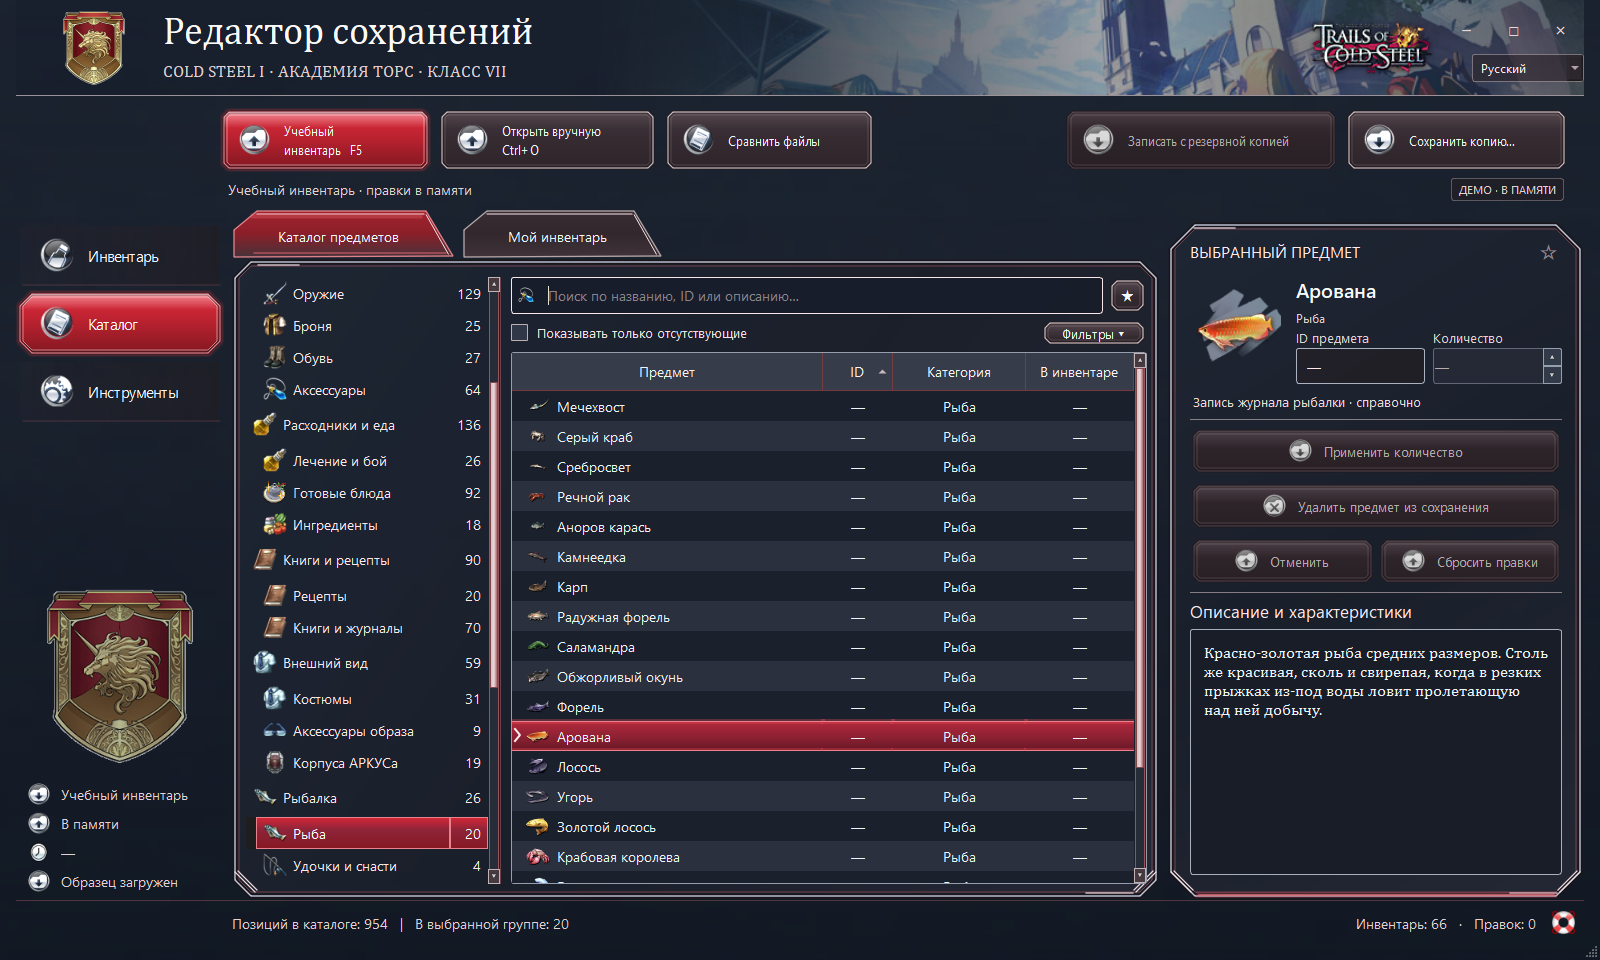
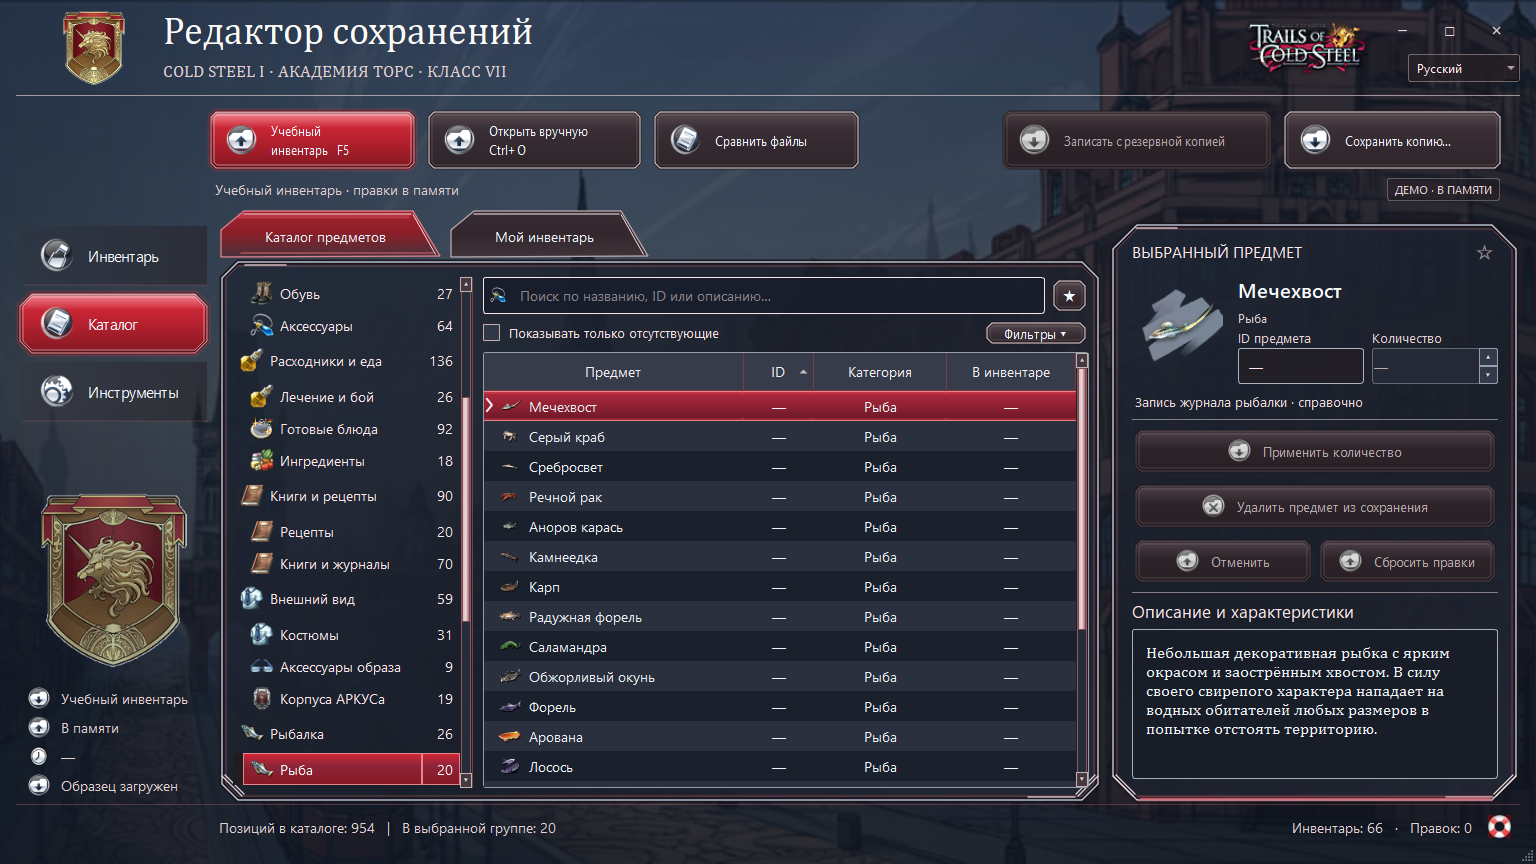
Unify the editor backdrop and fix catalog regressions

diff --git a/qt_hud_widgets.py b/qt_hud_widgets.py
@@ -1,7 +1,6 @@
 """Painted HUD chrome around real, accessible Qt controls.
 
-No screenshot is used as an interface. All coordinates are logical Qt pixels;
-the scene and academy banner are rendered once per size and device scale.
+The window backdrop is rendered once per size and device scale.
 """
 from __future__ import annotations
 
@@ -151,8 +150,10 @@ class HudButton(QPushButton):
         icon_size=34 if nav else 31 if role.startswith('toolbar') else 23
         gap=14 if left else 12
         text_width=max((p.fontMetrics().horizontalAdvance(line) for line in text.split('\n')),default=0)
-        if left:x=24 if nav else 19
-        else:x=max(9,(self.width()-text_width-(icon_size+gap if not icon.isNull() else 0))//2)
+        icon_width=icon_size+gap if not icon.isNull() else 0
+        if nav:x=16 if self.width()<185 else 24
+        elif left:x=19
+        else:x=max(9,(self.width()-text_width-icon_width)//2)
         if not icon.isNull():
             icon.paint(p,QRect(x,(self.height()-icon_size)//2,icon_size,icon_size),mode=QIcon.Mode.Normal if self.isEnabled() else QIcon.Mode.Disabled)
             x+=icon_size+gap
@@ -192,7 +193,10 @@ class AngularTab(QPushButton):
 class Backdrop(QWidget):
     def __init__(self,parent=None):
         super().__init__(parent)
-        self.texture=QPixmap(str(ASSETS / 'concept-backdrop.png'))
+        self.texture=QPixmap(str(ASSETS / 'heimdallr.jpg'))
+        if not self.texture.isNull():
+            # Remove the black letterbox baked into the Falcom screenshot.
+            self.texture=self.texture.copy(self.texture.rect().adjusted(0,12,0,-13))
         self._scene=QPixmap()
         self._scene_key=None
         self.setAutoFillBackground(False)
@@ -220,10 +224,14 @@ class Backdrop(QWidget):
             painter.setRenderHint(QPainter.RenderHint.SmoothPixmapTransform)
             painter.drawPixmap(QRectF(self.rect()),self.texture,crop)
         shade=QLinearGradient(0,0,0,self.height())
-        shade.setColorAt(0,QColor(22,32,48,126))
-        shade.setColorAt(.48,QColor(19,29,45,96))
-        shade.setColorAt(1,QColor(13,21,33,159))
+        shade.setColorAt(0,QColor(17,26,42,189))
+        shade.setColorAt(.45,QColor(18,27,41,196))
+        shade.setColorAt(1,QColor(13,20,32,225))
         painter.fillRect(self.rect(),shade)
+        left=QLinearGradient(0,0,self.width()*.34,0)
+        left.setColorAt(0,QColor(14,22,35,94))
+        left.setColorAt(1,QColor(14,22,35,0))
+        painter.fillRect(self.rect(),left)
         painter.end()
 
 
@@ -258,9 +266,9 @@ class GlassPanel(QFrame):
         if r.width()<30 or r.height()<30:p.end();return
         path=bevel(r,24 if self.kind=='dark' else 16)
         grad=QLinearGradient(0,0,r.width(),r.height())
-        grad.setColorAt(0,QColor(30,38,52,248 if self.kind=='dark' else 240))
-        grad.setColorAt(.52,QColor(26,31,42,250))
-        grad.setColorAt(1,QColor(36,40,53,246))
+        grad.setColorAt(0,QColor(30,38,52,220 if self.kind=='dark' else 204))
+        grad.setColorAt(.52,QColor(26,31,42,226))
+        grad.setColorAt(1,QColor(36,40,53,216))
         p.fillPath(path,grad)
         p.setPen(QPen(QColor(25,20,24,230),5));p.drawPath(path)
         p.setPen(QPen(QColor('#BFC8D9'),1.4));p.drawPath(path)
@@ -400,48 +408,6 @@ class ItemTitle(QLabel):
 
 
 class HudTitleBar(QWidget):
-    def __init__(self):
-        super().__init__()
-        self.academy = QPixmap(str(ASSETS / 'academy-full.jpg'))
-        self._academy_banner = QPixmap()
-        self._banner_key = None
-
-    def _render_banner(self, dpr):
-        if self.academy.isNull():
-            return
-        width = math.ceil(max(360, int(self.width() * 0.63)) * dpr)
-        height = math.ceil(max(1, self.height() - 1) * dpr)
-        scaled = self.academy.scaled(
-            width, height, Qt.AspectRatioMode.KeepAspectRatioByExpanding,
-            Qt.TransformationMode.SmoothTransformation,
-        )
-        banner = QPixmap(width, height)
-        banner.fill(Qt.GlobalColor.transparent)
-        painter = QPainter(banner)
-        y = int((scaled.height() - height) * 0.54)
-        painter.drawPixmap(banner.rect(), scaled, QRect(0, y, width, height))
-        painter.setCompositionMode(QPainter.CompositionMode.CompositionMode_DestinationIn)
-        fade = QLinearGradient(0, 0, width, 0)
-        for position, alpha in ((0, 0), (0.18, 48), (0.52, 150), (1, 72)):
-            fade.setColorAt(position, QColor(255, 255, 255, alpha))
-        painter.fillRect(banner.rect(), fade)
-        painter.end()
-        banner.setDevicePixelRatio(dpr)
-        self._academy_banner = banner
-
-    def paintEvent(self, event):
-        super().paintEvent(event)
-        dpr=self.devicePixelRatioF()
-        key=(self.size(),dpr)
-        if key!=self._banner_key:
-            self._render_banner(dpr)
-            self._banner_key=key
-        painter = QPainter(self)
-        painter.fillRect(self.rect().adjusted(0, 0, 0, -1), QColor(18, 25, 40, 83))
-        if not self._academy_banner.isNull():
-            x=self.width()-self._academy_banner.deviceIndependentSize().width()
-            painter.drawPixmap(QPointF(x,0),self._academy_banner)
-
     def mousePressEvent(self,event):
         if event.button()==Qt.MouseButton.LeftButton:
             handle=self.window().windowHandle()

diff --git a/test_preview.py b/test_preview.py
@@ -126,7 +126,45 @@ class PreviewTests(TestCase):
             self.assertEqual([path.name for path in root.iterdir()], ["settings.ini"])
 
 
+    def test_recent_items_records_additions_only(self):
+        with TemporaryDirectory() as directory:
+            root = Path(directory)
+            profile = QSettings(str(root / "settings.ini"), QSettings.Format.IniFormat)
+            core = EditorCore(profile=profile)
+            potion = CatalogItem("Potion", "Restores health", "items", 99, 0x81, 0)
+            core.apply_scan_result(ScanResult(root, (), dict.fromkeys(range(4), potion)))
+            self.assertEqual(set(core.save.quantities), {0, 1, 2})
+            core.change({0: 0, 1: 9, 2: core.quantity(2), 3: 2})
+            self.assertEqual(core.recent, [3])
+            core.change({3: 5, 0: 2})
+            self.assertEqual(core.recent, [0, 3])
+            self.assertEqual(EditorCore(profile=profile).recent, [0, 3])
+
+
 class CleanWindowTests(TestCase):
+    def test_compact_table_headers_fit_in_both_languages(self):
+        app = QApplication.instance() or QApplication([])
+        with TemporaryDirectory() as directory:
+            profile = QSettings(str(Path(directory) / "settings.ini"), QSettings.Format.IniFormat)
+            window = MainWindow(EditorCore(profile=profile))
+            window.initial_load_timer.stop()
+            try:
+                window.resize(1280, 720)
+                window.show()
+                for language in (0, 1):
+                    window.lang.setCurrentIndex(language)
+                    for section, table in (("catalog", window.cat_table), ("inventory", window.inv_table)):
+                        window.navigate_section(section)
+                        header = table.horizontalHeader()
+                        for column in range(header.count()):
+                            window.sort_rows(section, column)
+                            app.processEvents()
+                            with self.subTest(language=language, section=section, column=column):
+                                self.assertGreaterEqual(table.columnWidth(column), header.sectionSizeHint(column))
+            finally:
+                window.close()
+                app.processEvents()
+
     def test_catalog_and_language_switch_with_a_synthetic_table(self):
         app = QApplication.instance() or QApplication([])
         with TemporaryDirectory() as directory:
@@ -512,7 +550,9 @@ class NativeWindowTests(TestCase):
         item_id = next(i for i, item in self.core.native.items() if item.editable and item.stats and item.stats[0])
         table.selectRow(table.model().index_for_id(item_id).row())
         item = self.core.native[item_id]
-        self.assertIn(item.description.strip(), window.description.toPlainText())
+        description = self.core.details_text(item_id)
+        self.assertTrue(description)
+        self.assertIn(description.strip(), window.description.toPlainText())
         self.assertIn(f"STR +{item.stats[0]}", window.description.toPlainText())
         self.assertFalse(window.big_icon.pixmap().isNull())
         for item_id, stat in ((120, "ACC +20%"), (1001, "EVA +5%")):

diff --git a/qt_window.py b/qt_window.py
@@ -688,6 +688,7 @@ class MainWindow(QMainWindow):
         for key,ru,en in [('inventory','Инвентарь','Inventory'),
                           ('catalog','Каталог','Catalog'),('tools','Инструменты','Tools')]:
             self.navigation[key].setText(t(ru,en))
+            self.navigation[key].setToolTip(t(ru,en))
         self.btn_latest.setText(t('Последнее\nсохранение   F5','Latest\nsave   F5'))
         self.btn_open.setText(t('Открыть вручную\nCtrl+O','Open manually\nCtrl+O'))
         self.btn_compare.setText(t('Сравнить\nфайлы','Compare\nsaves'))
@@ -776,9 +777,12 @@ class MainWindow(QMainWindow):
         )
         for (btn,short,long),button_width in zip(pairs,widths):
             btn.setFixedWidth(button_width);btn.setText(self.msg(*(short if compact else long)))
-        for i,value in enumerate((62,109,82) if compact else (70,133,108),start=1):self.cat_table.setColumnWidth(i,value)
-        for i,value in enumerate((62,109,82) if compact else (70,133,108),start=1):self.inv_table.setColumnWidth(i,value)
-        for table in (self.cat_table,self.inv_table):table.verticalHeader().setDefaultSectionSize(30)
+        column_widths=(62,109,82) if compact else (70,133,108)
+        for table in (self.cat_table,self.inv_table):
+            header=table.horizontalHeader()
+            for column,width in enumerate(column_widths,start=1):
+                table.setColumnWidth(column,max(width,header.sectionSizeHint(column)))
+            table.verticalHeader().setDefaultSectionSize(30)
         self.footer_row.layout().setContentsMargins(rail+8,2,4,0)
         self.btn_latest.setToolTip(self.msg('Открыть последнее сохранение (F5)','Open latest save (F5)') if self.core.storage else
                                    self.msg('Загрузить учебный инвентарь (F5)','Load sample inventory (F5)'))

diff --git a/package_release.py b/package_release.py
@@ -12,6 +12,9 @@ from build_preview import ART, NAME, ROOT
 from version import VERSION
 
 
+README_SCREENSHOTS = (Path("docs/editor.png"), Path("docs/editor-ru.png"))
+
+
 def package(without_assets: bool, tag: str | None) -> tuple[Path, Path]:
     if tag is not None and tag != f"v{VERSION}":
         raise ValueError(f"Release tag {tag} does not match application version {VERSION}.")
@@ -44,6 +47,10 @@ def package(without_assets: bool, tag: str | None) -> tuple[Path, Path]:
         library.with_suffix(".unpacked").rename(library)
         for name in ("README.md", "LICENSE", "CHANGELOG.md"):
             shutil.copyfile(ROOT / name, staged / name)
+        for screenshot in README_SCREENSHOTS:
+            destination = staged / screenshot
+            destination.parent.mkdir(exist_ok=True)
+            shutil.copyfile(ROOT / screenshot, destination)
         notices = staged / "third_party"
         shutil.copytree(ROOT / "third_party", notices)
         shutil.copyfile(Path(sys.base_prefix) / "LICENSE.txt", notices / "Python-LICENSE.txt")

diff --git a/verify_package.py b/verify_package.py
@@ -9,7 +9,8 @@ import subprocess
 from tempfile import TemporaryDirectory
 from zipfile import ZipFile
 
-from build_preview import ART, NAME
+from build_preview import ART, NAME, ROOT
+from package_release import README_SCREENSHOTS
 from qt_backend import ITEM_TABLE
 from test_cs1 import make_save
 from version import VERSION
@@ -29,6 +30,9 @@ def verify(directory: Path, *, full_theme: bool, save: Path | None) -> None:
                 raise ValueError("Unexpected nested archive or test data in release.")
             files.extractall(root)
         bundle = root / NAME
+        for screenshot in README_SCREENSHOTS:
+            if (bundle / screenshot).read_bytes() != (ROOT / screenshot).read_bytes():
+                raise ValueError(f"Bundled screenshot differs from the release source: {screenshot}")
         exe = bundle / f"{NAME}.exe"
         binary = exe.read_bytes()
         pe = unpack_from("<I", binary, 0x3C)[0]

diff --git a/app.py b/app.py
@@ -81,7 +81,6 @@ def main() -> int:
                 window.isVisible() and window.cat_table.model().rowCount() > 0
                 and not window.centralWidget().texture.isNull()
                 and not window.rail_watermark.mark.isNull()
-                and not window.header.academy.isNull()
                 and not window._icon(0).isNull()
                 and all(0 in window.core.translations.get(language, {}) for language in ("ru", "en"))
                 and (args.save is None or window.core.source == args.save.resolve())

diff --git a/build_preview.py b/build_preview.py
@@ -12,8 +12,8 @@ from version import VERSION
 ROOT = Path(__file__).resolve().parent
 NAME = "Cold_Steel_I_Inventory_Editor"
 ART = (
-    "concept-backdrop.png", "item-text.json",
-    "academy-full.jpg", "thors.png", "logo.png", "item-atlas.png",
+    "heimdallr.jpg", "item-text.json",
+    "thors.png", "logo.png", "item-atlas.png",
     "master-atlas.png", "menu-atlas.png", "fish-art.png", "fish-icons.png", "special-art.png",
     "arcus-cover-art.png", "shining-pom.png", "arrow-up.png", "arrow-down.png",
 )

diff --git a/qt_backend.py b/qt_backend.py
@@ -374,7 +374,8 @@ class EditorCore:
         if candidate != before:
             self.undo_stack.append(before)
             self.save.quantities = candidate
-            self.recent = list(dict.fromkeys((*changes, *self.recent)))[:24]
+            added = (item_id for item_id in changes if item_id in candidate and item_id not in before)
+            self.recent = list(dict.fromkeys((*added, *self.recent)))[:24]
             self._persist_lists()
 
     def undo(self) -> bool:

diff --git a/README.md b/README.md
@@ -10,7 +10,7 @@ A Windows inventory editor for **The Legend of Heroes: Trails of Cold Steel I** 
 
 ![Russian item catalog showing the fishing journal](docs/editor-ru.png)
 
-*Both screenshots show the editor's in-memory demo inventory.*
+*Both screenshots show the interface on the main branch with the editor's in-memory demo inventory.*
 
 ## Features
 
@@ -65,7 +65,7 @@ To restore a backup, open its `.bak` file with **Open manually** and use **Save 
 
 ## Local artwork and item text
 
-The complete theme loads from `_internal/assets` in a binary build and from `assets` when running from source. The bilingual catalog, `assets/item-text.json`, is a UTF-8 object with `en` and `ru` maps. Each map uses decimal item IDs or references such as `fish:0` and `dlc:25` as keys, with `[name, description]` as values.
+The complete theme loads from `_internal/assets` in a binary build and from `assets` when running from source. The backdrop uses a [Heimdallr image from Nihon Falcom](https://www.falcom.co.jp/sen/world/show/ss39_l.jpg). The bilingual catalog, `assets/item-text.json`, is a UTF-8 object with `en` and `ru` maps. Each map uses decimal item IDs or references such as `fish:0` and `dlc:25` as keys, with `[name, description]` as values.
 
 To extract the supported menu and inventory art from your own installation for local use, run:
 

diff --git a/CHANGELOG.md b/CHANGELOG.md
@@ -1,5 +1,11 @@
 # Changelog
 
+## Unreleased
+
+- Use a single Heimdallr backdrop across the editor.
+- Keep the catalog and inventory column headings readable in compact windows.
+- Record only additions in the Recently added category.
+
 ## 1.0.0
 
 - Browse the installed Cold Steel I Steam catalog, including fishing records and DLC listings.
